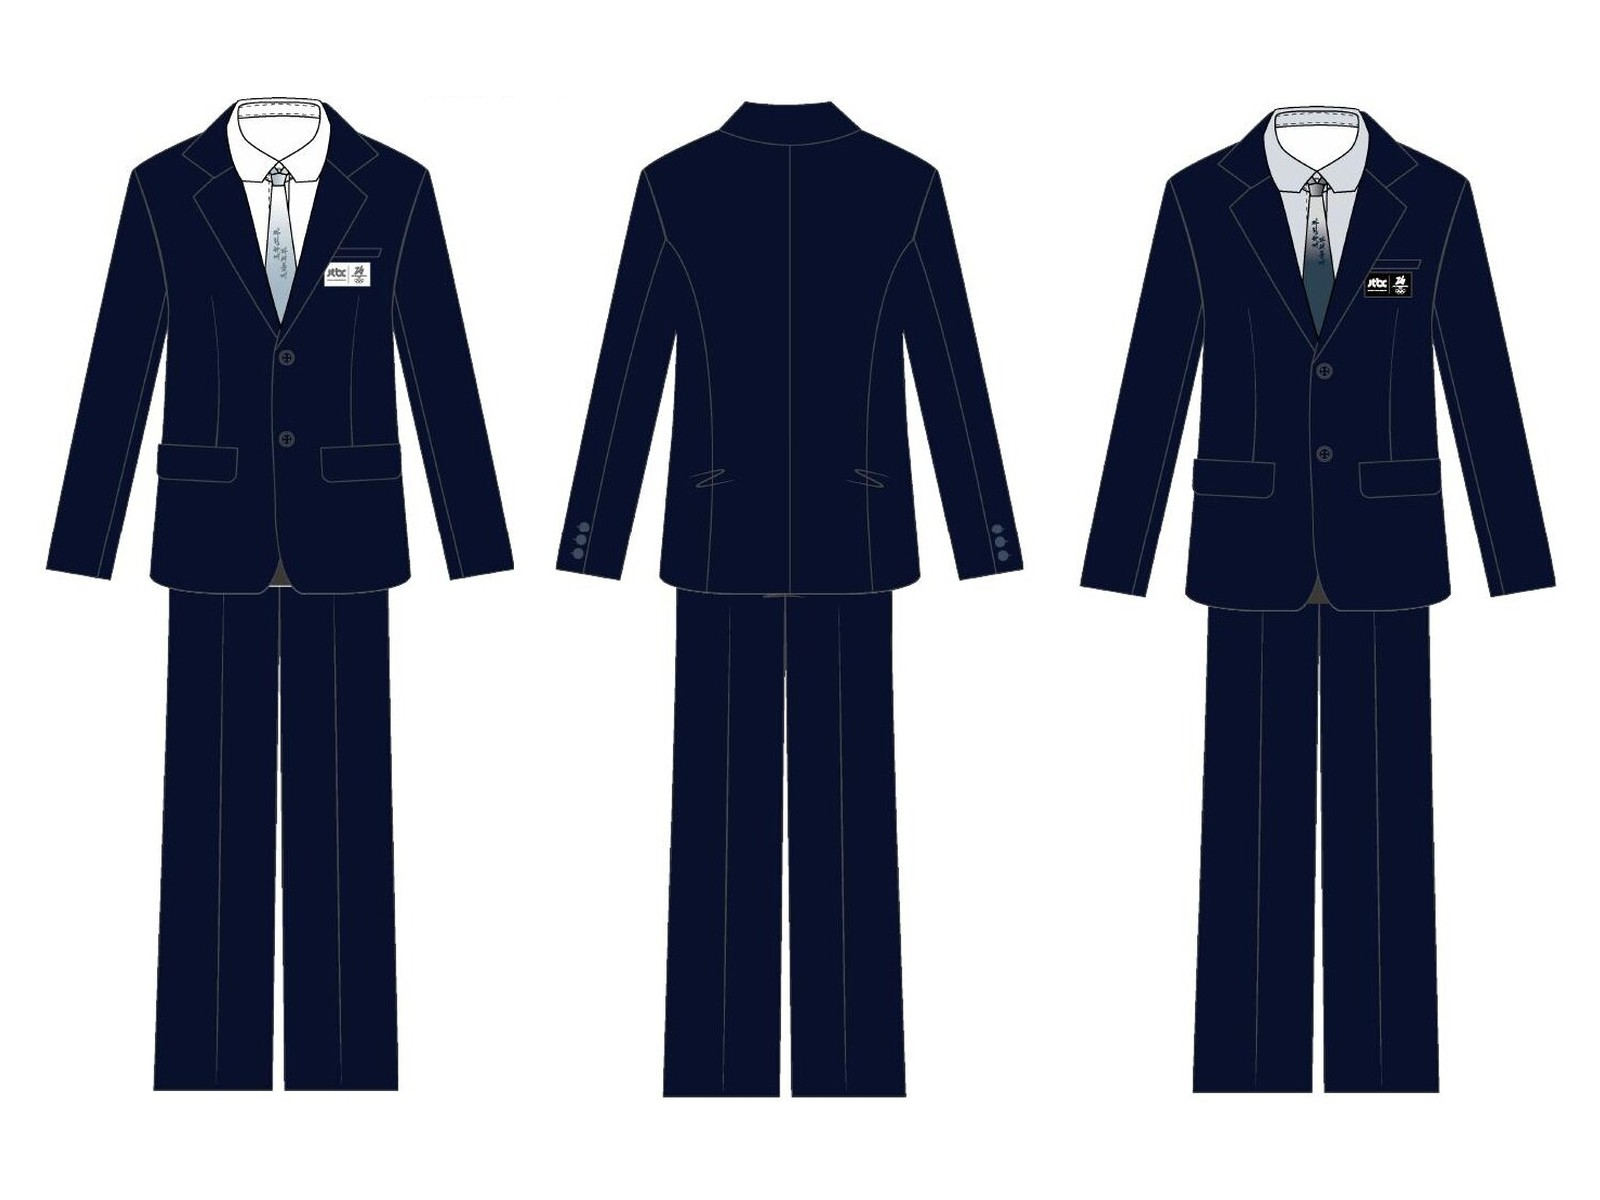
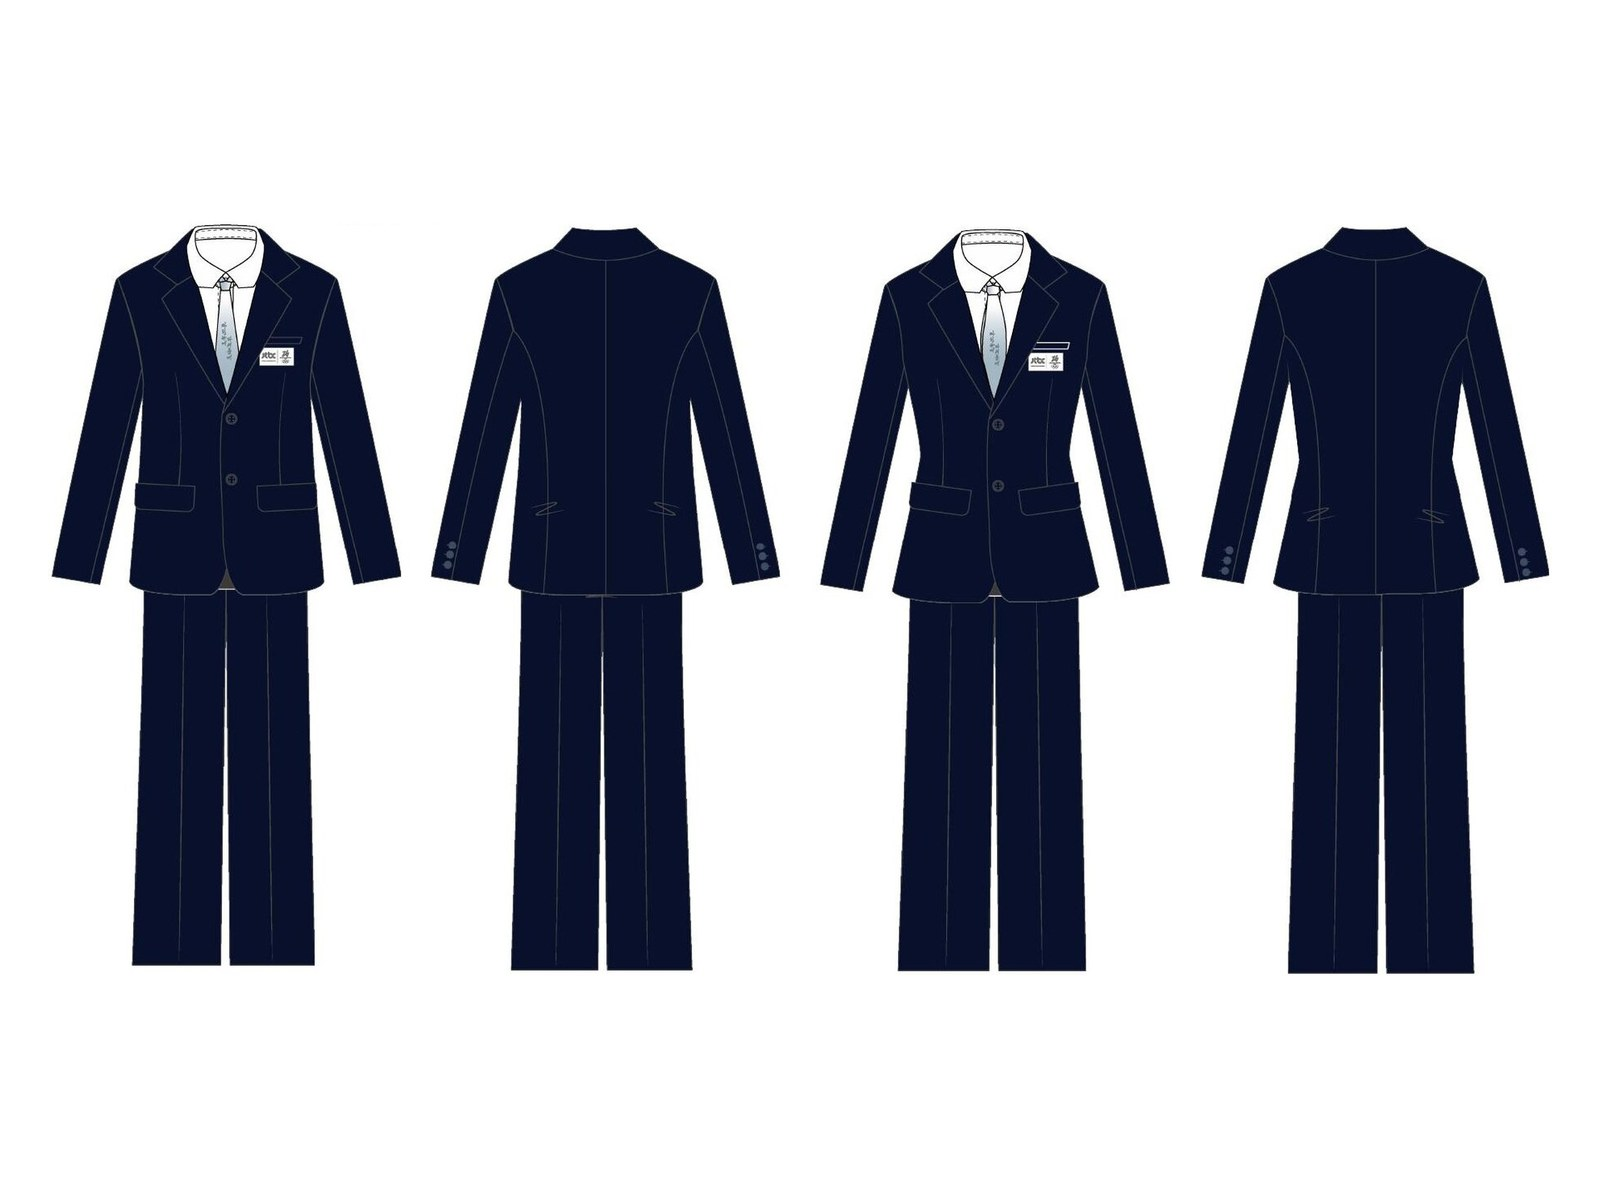
JTBC: final A set-up (men/women front & back) and light tie + scarf, replacing option sheets; home thumb A only
Claude-Session: https://claude.ai/code/session_01Bs1wxDBAEjZhvDBkhAXViZ

diff --git a/jtbc.html b/jtbc.html
@@ -90,6 +90,9 @@
         .jtbc-kv { margin: 0 0 40px; }
         .jtbc-kv img { width: 100%; display: block; }
         .jtbc-kv figcaption { margin-top: 10px; font-family: monospace; font-size: 11px; letter-spacing: 2px; color: #666; }
+        .sheet-cap { margin: 30px 0 -24px; font-family: 'Playfair Display', serif; font-size: 20px; color: #eee; grid-column: 1 / -1; width: 100%; }
+        .sheet-cap span { margin-left: 12px; font-family: monospace; font-size: 11px; letter-spacing: 2px; color: #a68d60; text-transform: uppercase; }
+        .gallery-item.white { background: #fff; }
     </style>
     <link rel="stylesheet" href="style.css">
 </head>
@@ -117,12 +120,13 @@
         </div>
 
         <div class="jtbc-part"><span>01</span><h2>Winter Olympics</h2><p>2026 밀라노 코르티나 동계올림픽 중계복</p></div>
-        <div class="part-text"><p>폭 7cm의 그라데이션 넥타이·스카프에 한글 캘리그래피를 담아 디자인했습니다. 해설진 전원을 직접 체촌해 화이트·라이트 블루 맞춤 셔츠와 네이비 맞춤 정장을 생산했고, 남성·여성 세트업을 A/B 두 가지 스타일링으로 구성했습니다.</p></div>
+        <div class="part-text"><p>폭 7cm의 그라데이션 넥타이·스카프에 한글 캘리그래피를 담아 디자인했습니다. 해설진 전원을 직접 체촌해 화이트·라이트 블루 맞춤 셔츠와 네이비 맞춤 정장을 생산했고, 최종 세트업은 남녀 모두 네이비 정장에 화이트 셔츠, 라이트 그레이 그라데이션 넥타이로 구성했습니다.</p></div>
         <figure class="jtbc-kv"><img src="images/jtbc/kv_olympics.jpg" alt="JTBC Milano Cortina 2026 commentators wearing the uniforms"><figcaption>© JTBC</figcaption></figure>
         <div class="gallery-grid">
-<div class="gallery-item full"><img src="images/jtbc/wo_6.jpg" alt="Tie and scarf design option" loading="lazy" decoding="async"></div>
-<div class="gallery-item full"><img src="images/jtbc/wo_7.jpg" alt="Men set-up A and B" loading="lazy" decoding="async"></div>
-<div class="gallery-item full"><img src="images/jtbc/wo_8.jpg" alt="Women set-up A and B" loading="lazy" decoding="async"></div>
+<p class="sheet-cap">Tie &amp; Scarf <span>7cm · calligraphy gradient</span></p>
+<div class="gallery-item full white"><img src="images/jtbc/olympics_tie_scarf.jpg" alt="Light grey gradient tie and scarf with Korean calligraphy" loading="lazy" decoding="async"></div>
+<p class="sheet-cap">Set-up <span>Men · Women — front &amp; back</span></p>
+<div class="gallery-item full white"><img src="images/jtbc/olympics_setup_A.jpg" alt="Navy suit set-up with white shirt and grey tie, men and women, front and back" loading="lazy" decoding="async"></div>
         </div>
 
         <div class="jtbc-part"><span>02</span><h2>World Cup</h2><p>2026 FIFA 월드컵 중계복 — A안</p></div>
